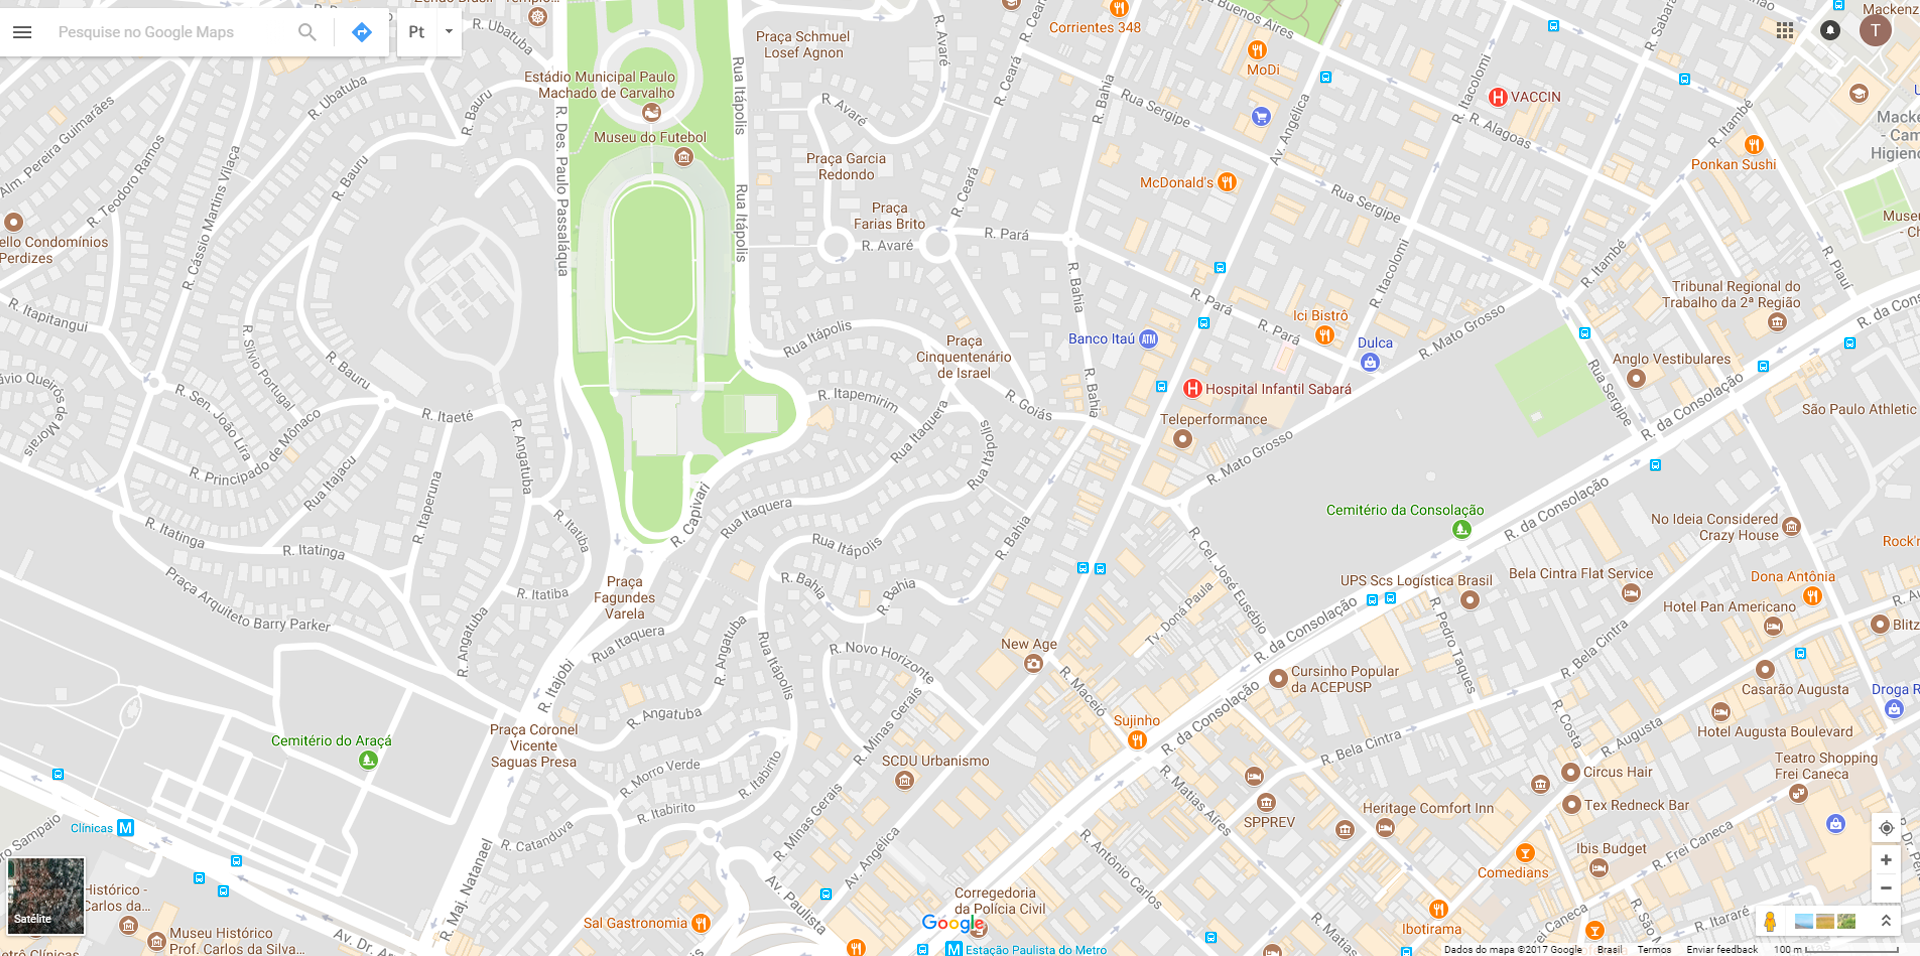
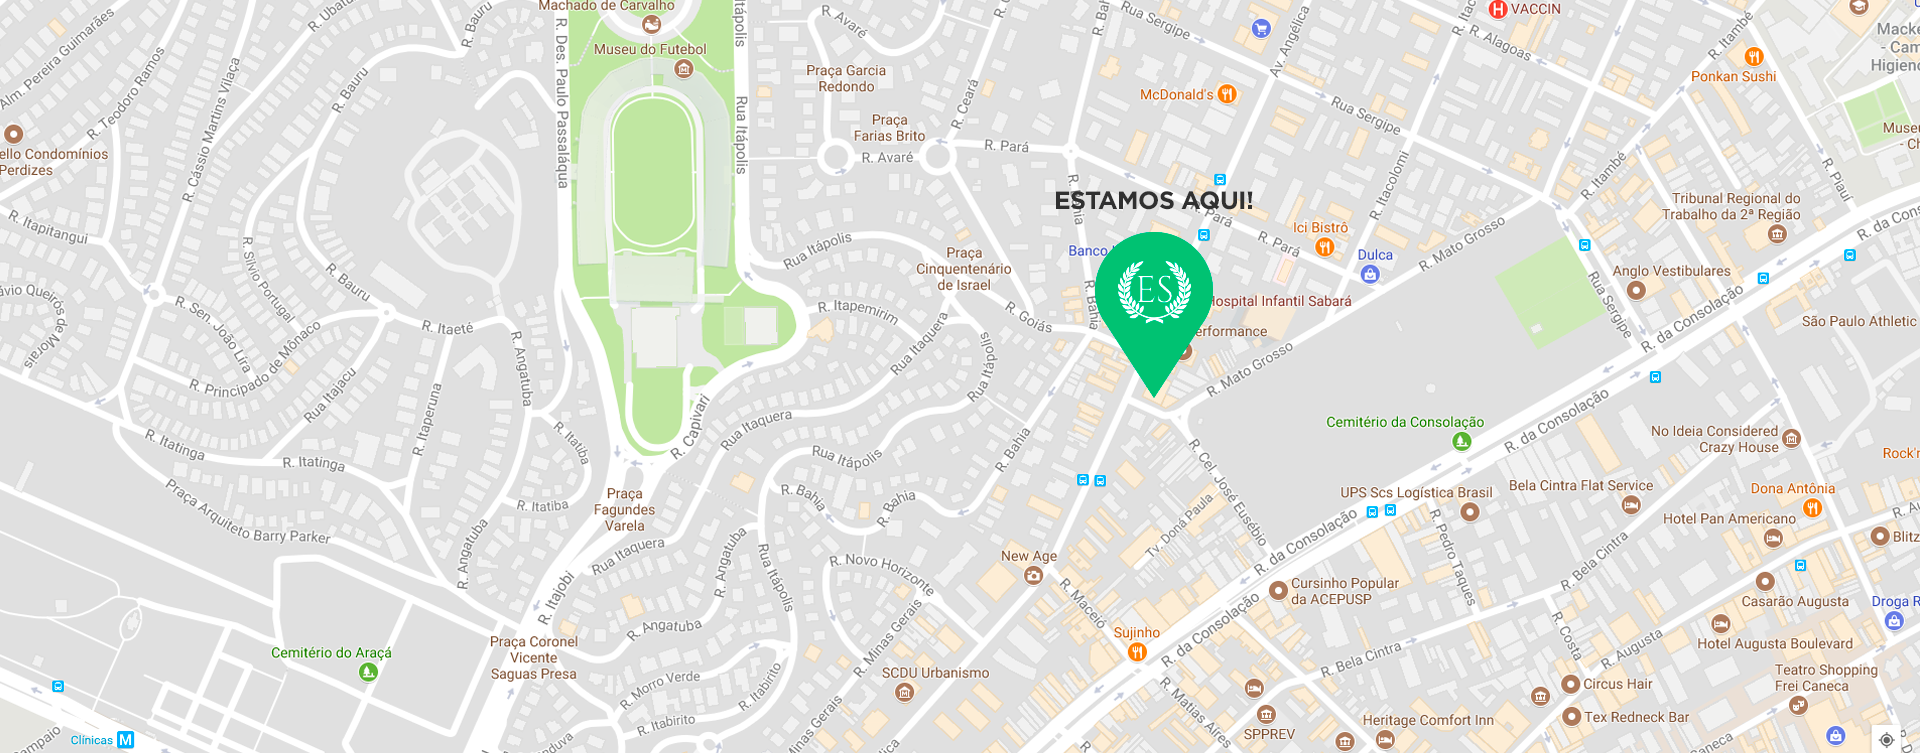
introdução do site 18/01

diff --git a/fale-conosco.html b/fale-conosco.html
@@ -10,7 +10,7 @@
 <body>
 	<header>
 		<div id="header">
-			<img class="logo" src="img/logo-topo.png" alt="" />
+			<a href="index.html"><img class="logo" src="img/logo-topo.png" alt="" /></a>
 		</div>
 		<div class="menu">
 			<nav>
@@ -34,19 +34,90 @@
 			<p>Fale conosco ENVIE UM E-MAIL OU LIGUE PARA NÓS!</p>
 		</div>
 	</section>
-	<section>
+	<section >
 		<div class="linha">
 			<div class="coluna col6">
 				<h2>ENTRE EM CONTATO</h2><hr>
-				<div class="contato">
-					<img src="img/fale-conosco/icone-tel.png" alt="" />
-					<p>Telefone:</p>
-					<p>(11) 3522-1873</p>
-				</div>
 			</div>
-			
+			<div class=" coluna col6 formulario-pai">
+				<h2>ENVIE UM E-MAIL</h2><hr>				
+			</div>
+		</div>
+		<div class="linha">
+			<div class="coluna col1 fale-conosco-icone">
+				<img src="img/fale-conosco/icone-tel.png" alt="" />
+			</div>
+			<div class="coluna col11 fale-conosco-texto">
+				<p><strong>Telefone:</strong></p>
+				<p>(11) 3522-1873</p>
+			</div>
+		</div>
+		<div class="linha">
+			<div class="coluna col1 fale-conosco-icone">
+				<img src="img/fale-conosco/icone-email.png" alt="" />
+			</div>
+			<div class="coluna col11 fale-conosco-texto">
+				<p><strong>E-mail:</strong></p>
+				<p>contato@experienciadesucesso.com.br</p>
+			</div>
+		</div>
+		<div class="linha">
+			<div class="coluna col1 fale-conosco-icone">
+				<img src="img/fale-conosco/icone-mapa.png" alt="" />
+			</div>
+			<div class="coluna col11 fale-conosco-texto">
+				<p><strong>Endereço:</strong></p>
+				<p>Avenida Angélica, 2071 | 1º Andar | <br>Santa Cecília | São Paulo <br> Horário: Seg a Sex das 9h às 18h</p>
+			</div>
+		</div>
+		<div class="linha">
+			<div class="coluna col7 formulario-filho">
+				<form action="">
+					<label for="nome"></label>
+					<input type="text" name="nome" placeholder="Nome*" class="formulario-caixa filho2" />
+					<label for="email"></label>
+					<input type="text" name="email" placeholder="CPF*" class="formulario-caixa" />
+					<label for="assunto"></label>
+					<input type="text" name="assunto" placeholder="E-mail*" class="formulario-caixa alinhar" />
+					<label for="mensagem"></label>
+					<input type="text" name="assunto" placeholder="Telefone*" class="formulario-caixa" />
+					<label for="mensagem"></label>
+					<select name="Assunto" form="carform" class="formulario-caixa alinhar2">
+						<option></option>
+					</select>
+					<textarea name="mensagem" placeholder="Mensagem" class="formulario-caixa"></textarea>
+					<input type="submit" name="enviar" class="formulario-botao" value="Enviar" />				
+				</form>
+			</div>
 		</div>
 	</section>
+	<section>
+		<div>
+			<img class="mapa" src="img/fale-conosco/mapa.png" alt="" />
+		</div>
+	</section>
+	<footer class="fundo">
+		<div class="linha">
+			<div class="coluna col4 logo-rodape">
+				<img src="img/logo-topo.png" alt="" />
+				<p>© 2017 www.experienciadesucesso.com.br <br> Todos os direitos reservados.</p>
+			</div>
+			<div class="coluna col3 icone">
+				<ul class="inline sem-marcador">
+					<li><img src="img/icone-face.png" alt=""></li>
+					<li><img src="img/icone-youtube.png" alt=""></li>
+					<li><img src="img/icone-insta.png" alt=""></li>
+				</ul>
+			</div>
+			<div class="coluna col1 tel">
+				<img src="img/telef.png" alt="" />
+			</div>
+			<div class="coluna col4 num">
+				<h2>11 3522 1873</h2>
+				<p>Seg a Sex das 9h ás 18h entre em contato <br>contato@experienciadesucesso.com.br</p>	
+			</div>	
+		</div>
+	</footer>
 
 </body>
 </html>

diff --git a/css/estilo.css b/css/estilo.css
@@ -780,6 +780,7 @@ hr{
     background-position: center center;
     background-repeat:no-repeat;
     position:relative;
+    margin-bottom: 50px;
 }
 
 .background-contato p{
@@ -797,4 +798,104 @@ hr{
 	color: #fff;
 	font-family: 'Gotham Light';
 	font-size: 27px;
+}
+
+.fale-conosco-icone{
+	margin-top: 30px;	
+}
+
+.fale-conosco-texto{
+	margin-top: 10px;
+	margin-left: -25px;
+	font-family: 'Gotham Light';
+}
+
+.formulario-pai{
+	position: relative;
+}
+
+.formulario-filho{
+	position: absolute;
+	left: 900px;
+	top: 860px;
+}
+
+.formulario-filho label{
+	font-size: 13px;
+	font-weight: 300;
+	text-decoration: none;
+	margin: 20px;
+	display: inline;
+}
+
+.formulario-filho input{
+	text-decoration: none;
+	display: inline;
+	margin-bottom: 10px;
+	padding: 10px 2%;
+	width: 30%;
+	text-align: left;
+	float: left;
+}
+
+.alinhar{
+	margin-top: -18px;
+	width: 42% !important;
+	margin-left: 20px;	
+}
+
+.alinhar2{
+	width: 46% !important;
+	margin-left: 20px;	
+	text-decoration: none;
+	padding: 10px 2%;
+}
+
+.formulario-filho textarea{
+	text-decoration: none;
+	display: inline;
+	margin-bottom: 10px;
+	padding: 10px 2%;
+	width: 80%;
+	height: 200px;
+	text-align: left;
+}
+
+.filho2{
+	text-decoration: none;
+	display: block;
+	margin-bottom: 10px;
+	padding: 10px 2%;
+	width: 80% !important;
+	text-align: left;
+	margin: auto;
+}
+
+.formulario-caixa{
+	border: 1px solid #e5e5e5;
+	background-color: #fff;
+}
+
+.formulario-botao{
+	border: 1px solid #00c176;
+	background-color: #00c176;
+	color: #fff;
+}
+
+.formulario-filho input.formulario-botao{
+	margin-top: 20px; 
+	margin-bottom: 20px;
+	text-align: center;
+}
+
+.formulario-filho input.formulario-botao:hover{
+		background-color: #6ac3a1;
+		color: #fff;
+		transition: 1s;
+}
+
+.mapa{
+	width: 100%;
+	height: auto;
+	margin-top: 200px;
 }
